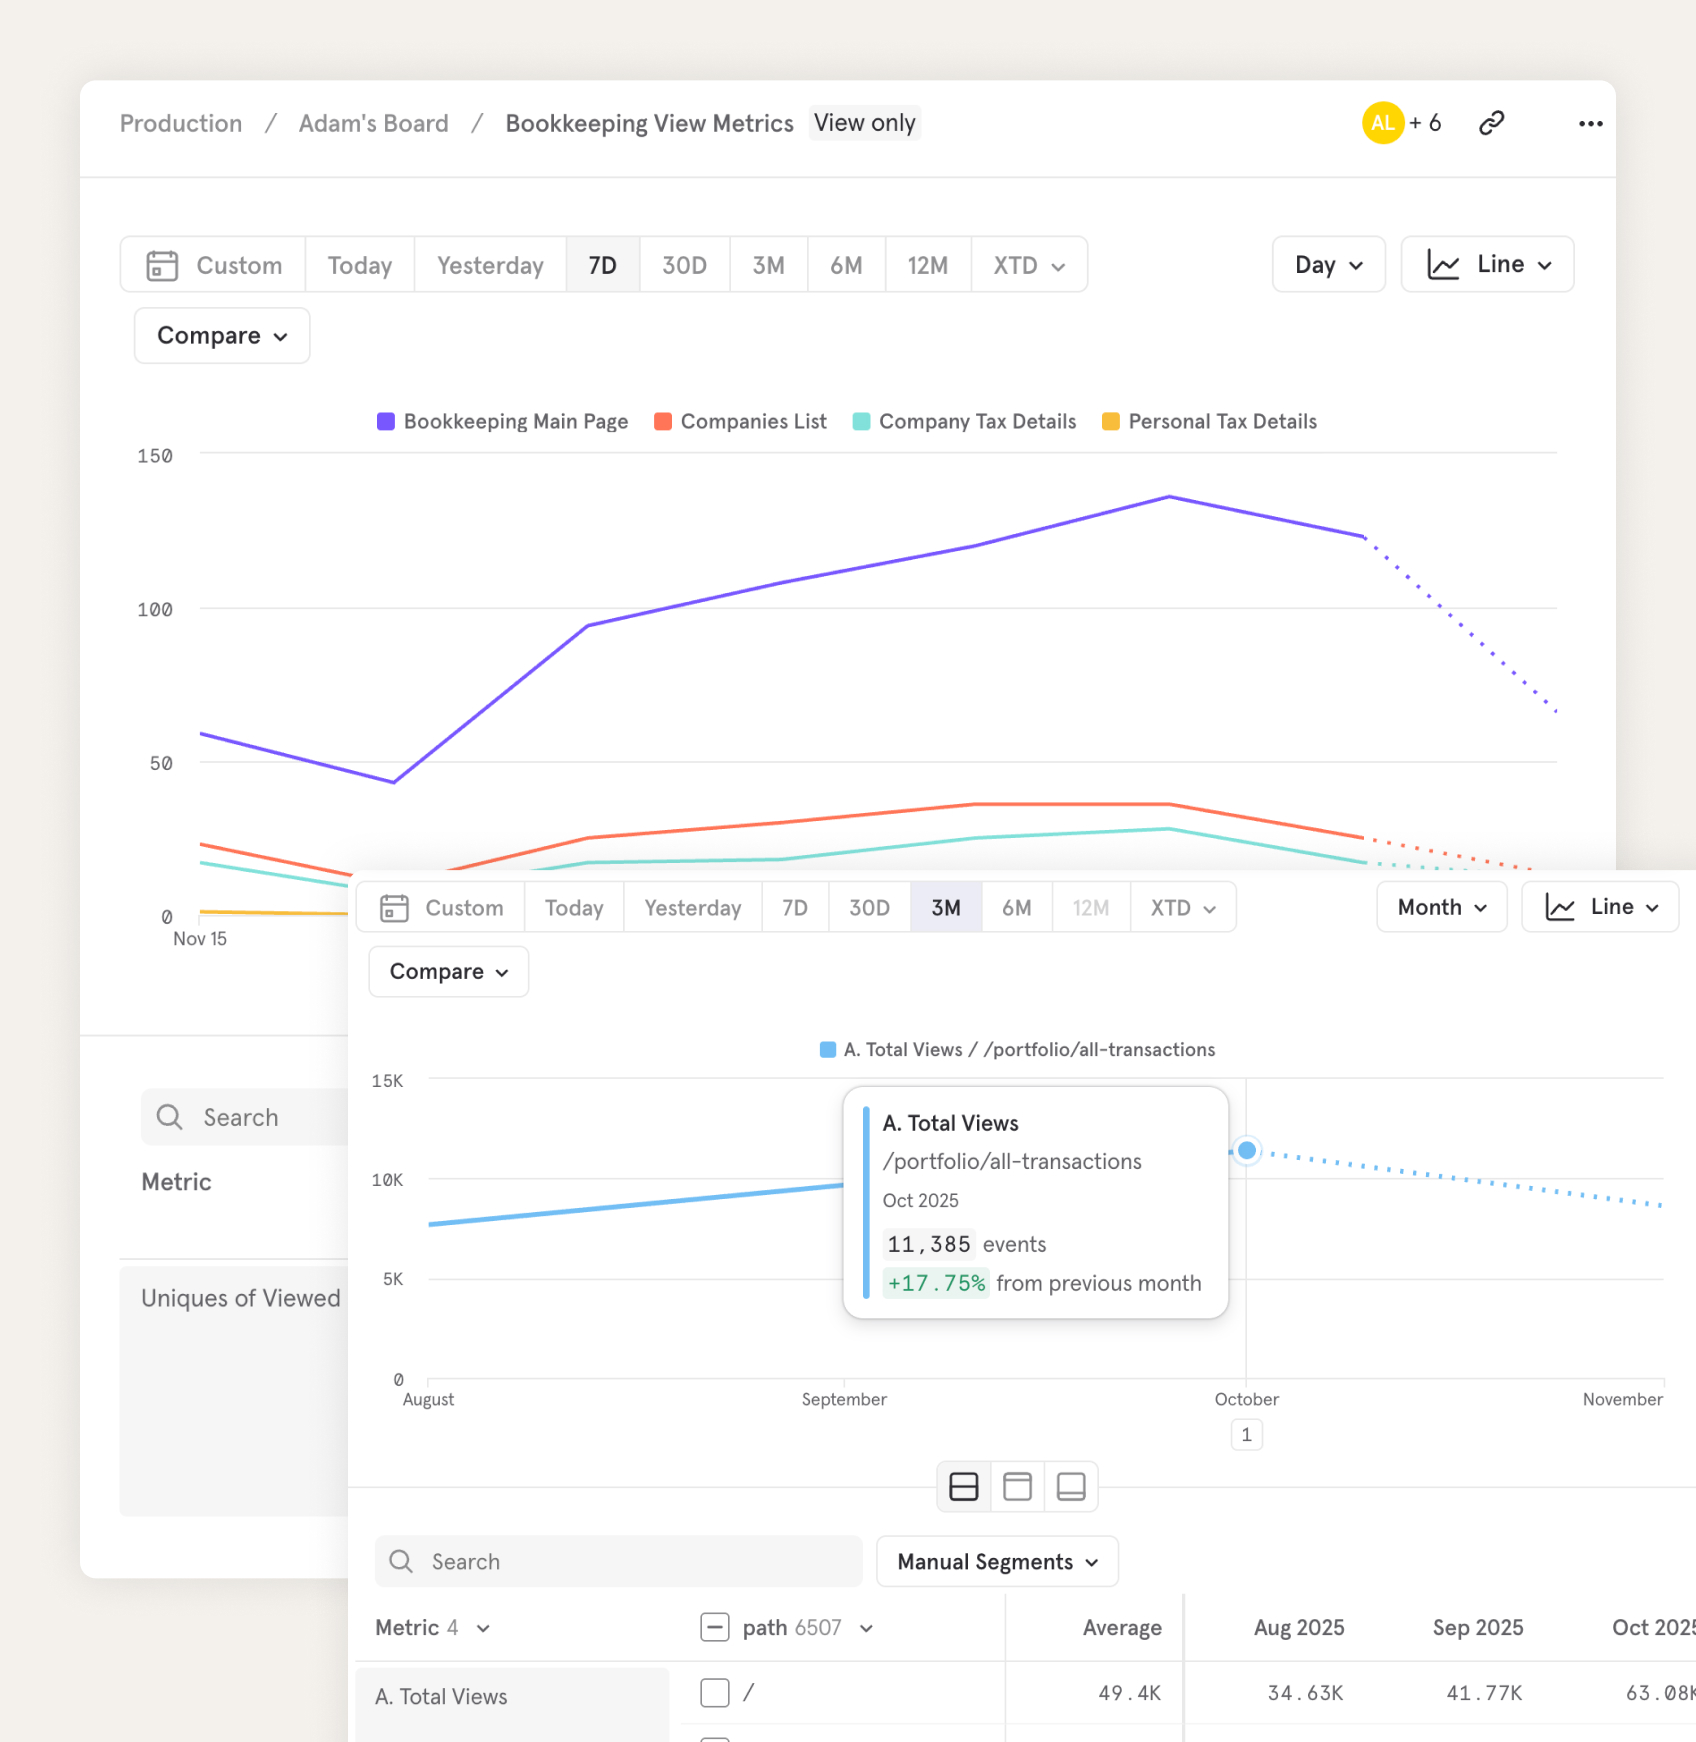
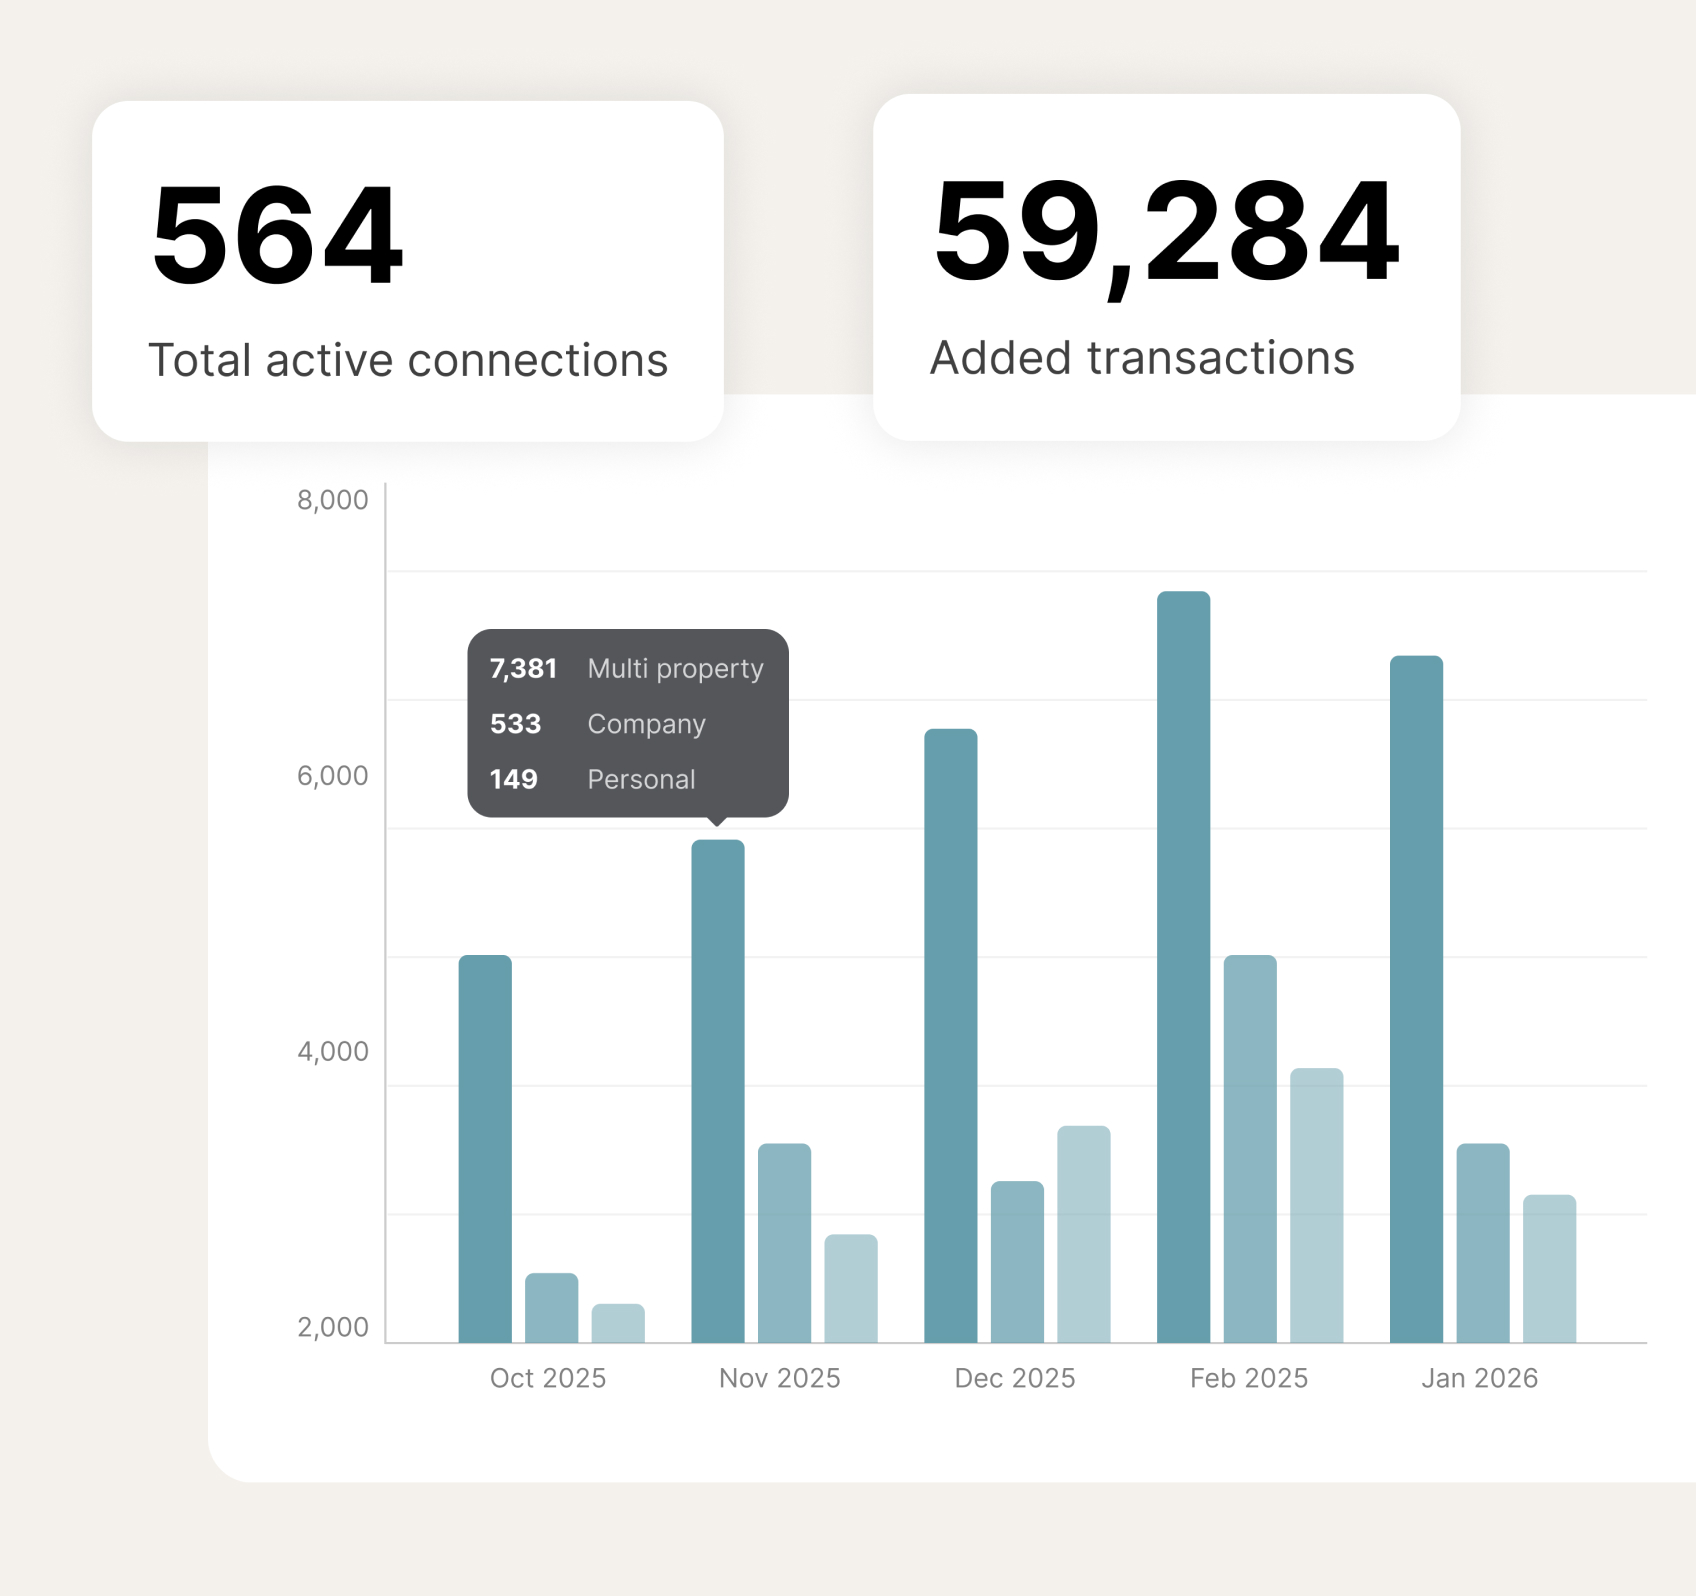
feat: added metrics to home and bookkeeping case study

diff --git a/app/gg-bookkeeping/page.tsx b/app/gg-bookkeeping/page.tsx
@@ -521,25 +521,9 @@ export default function GGBookkeepingPage() {
       content: (
         <>
           <div className="space-y-4">
-            <h3 className="typography-h4-demibold">Initial usage</h3>
-            <p className="typography-body text-foreground">
-              We broke delivery into phases to provide value without overwhelming
-              users, launching Bookkeeping first with MTD to follow.
-            </p>
-            <p className="typography-body text-foreground">
-              We're tracking organic traffic to understand how landlords use
-              the feature compared to the old transactions list. Bookkeeping
-              usage is steadily increasing while the previous transactions page
-              remains static.
-            </p>
-            <p className="typography-body text-foreground">
-              Combined with NPS capture, the data shows the feature gaining
-              steady adoption.
-            </p>
-            <p className="typography-body text-foreground">
-              We've also seen strong appetite for Making Tax Digital, with
-              a ~9% CTR on emails and ~35% of recipients signing up to the MTD
-              waitlist.
+            <h3 className="typography-h4-demibold">Engagement</h3>
+            <p className="typography-body text-foreground min-h-[2lh]">
+              To measure engagement, with bookkeeping we tracked how many users were tracking their income and expenses through open banking and how manysigned up for Making Tax Digital. We&apos;ve seen a significant uptake in both features: <span className="font-bold">200+ MTD sign ups</span> from new users in 2 months, <span className="font-bold">564 active banking connections</span>, and nearly <span className="font-bold">60,000+ transactions</span> added since release.
             </p>
           </div>
 
@@ -548,7 +532,7 @@ export default function GGBookkeepingPage() {
             alt="Analytics dashboard showing bookkeeping feature usage"
             width={1920}
             height={1080}
-            className="w-full h-auto rounded-lg mb-8"
+            className="mt-8 w-full h-auto rounded-lg mb-8"
             loading="lazy"
           />
         </>

diff --git a/components/ui/case-study-card/case-study-card.tsx b/components/ui/case-study-card/case-study-card.tsx
@@ -18,6 +18,8 @@ export interface CaseStudyCardProps {
   year: string;
   /** Project title */
   projectTitle: string;
+  /** Short impact statement focusing on metrics */
+  impact: string;
   /** Image source URL */
   imageSrc: string;
   /** Alt text for the image */
@@ -36,6 +38,7 @@ export function CaseStudyCard({
   businessName,
   year,
   projectTitle,
+  impact,
   imageSrc,
   imageAlt,
   href,
@@ -47,7 +50,7 @@ export function CaseStudyCard({
     <div
       className={cn(
         "group flex flex-col gap-1",
-        href && "cursor-pointer hover:scale-[1.005] transition-transform duration-300 ease-out",
+        href && "cursor-pointer",
         className,
         staggerClass
       )}
@@ -55,13 +58,12 @@ export function CaseStudyCard({
       {/* Project title */}
       <h3 className="typography-h5-demibold">{projectTitle}</h3>
 
-      {/* Business name and year */}
-      <div className="flex items-baseline gap-2 mb-4">
-        <span className="typography-body-bold text-muted-foreground">{businessName}</span>
-        <span className="typography-body text-muted-foreground">{year}</span>
+      {/* Impact statement - min height keeps images level across cards */}
+      <div className="typography-body text-muted-foreground mb-4 min-h-[2lh]">
+        {impact}
       </div>
 
-      {/* 1:1 aspect ratio image */}
+      {/* Image container with overlay */}
       <div className="relative aspect-square w-full overflow-hidden rounded-lg bg-muted">
         <Image
           src={imageSrc}
@@ -71,6 +73,16 @@ export function CaseStudyCard({
           sizes="(max-width: 768px) 100vw, (max-width: 1200px) 50vw, 33vw"
           priority={priority}
         />
+
+        {/* Solid background overlay with business name and year - shown on hover */}
+        <div className="absolute bottom-0 left-0 right-0 opacity-0 transition-opacity duration-300 group-hover:opacity-100">
+          <div className="bg-black/60 px-4 py-4">
+            <div className="flex items-baseline gap-2">
+              <span className="typography-body-bold text-white">{businessName}</span>
+              <span className="typography-body text-white">{year}</span>
+            </div>
+          </div>
+        </div>
       </div>
     </div>
   );

diff --git a/components/ui/case-study-card/case-study-card.stories.tsx b/components/ui/case-study-card/case-study-card.stories.tsx
@@ -22,6 +22,10 @@ const meta: Meta<typeof CaseStudyCard> = {
       control: { type: "text" },
       description: "Project title",
     },
+    impact: {
+      control: { type: "text" },
+      description: "Short impact statement focusing on metrics",
+    },
     imageSrc: {
       control: { type: "text" },
       description: "Image source URL",
@@ -45,6 +49,7 @@ export const Default: Story = {
     businessName: "Acme Corporation",
     year: "2024",
     projectTitle: "E-commerce Platform Redesign",
+    impact: "45% increase in conversion rate, 60% faster checkout flow",
     imageSrc: "https://images.unsplash.com/photo-1460925895917-afdab827c52f?w=800&h=800&fit=crop",
     imageAlt: "E-commerce platform interface",
   },
@@ -55,6 +60,7 @@ export const WithLink: Story = {
     businessName: "Tech Startup",
     year: "2023",
     projectTitle: "Mobile App Development",
+    impact: "Native iOS/Android app with 4.8 star rating",
     imageSrc: "https://images.unsplash.com/photo-1551650975-87deedd944c3?w=800&h=800&fit=crop",
     imageAlt: "Mobile app screens",
     href: "/case-studies/mobile-app",
@@ -66,6 +72,7 @@ export const DesignSystem: Story = {
     businessName: "Global Bank",
     year: "2024",
     projectTitle: "Design System Implementation",
+    impact: "50% reduction in design-to-dev handoff time",
     imageSrc: "https://images.unsplash.com/photo-1558655146-9f40138edfeb?w=800&h=800&fit=crop",
     imageAlt: "Design system components",
     href: "/case-studies/design-system",
@@ -79,6 +86,7 @@ export const Grid: Story = {
         businessName="Acme Corporation"
         year="2024"
         projectTitle="E-commerce Platform Redesign"
+        impact="45% increase in conversion rate, 60% faster checkout flow"
         imageSrc="https://images.unsplash.com/photo-1460925895917-afdab827c52f?w=800&h=800&fit=crop"
         imageAlt="E-commerce platform"
         href="/case-studies/ecommerce"
@@ -87,6 +95,7 @@ export const Grid: Story = {
         businessName="Tech Startup"
         year="2023"
         projectTitle="Mobile App Development"
+        impact="Native iOS/Android app with 4.8 star rating"
         imageSrc="https://images.unsplash.com/photo-1551650975-87deedd944c3?w=800&h=800&fit=crop"
         imageAlt="Mobile app"
         href="/case-studies/mobile-app"
@@ -95,6 +104,7 @@ export const Grid: Story = {
         businessName="Global Bank"
         year="2024"
         projectTitle="Design System Implementation"
+        impact="50% reduction in design-to-dev handoff time"
         imageSrc="https://images.unsplash.com/photo-1558655146-9f40138edfeb?w=800&h=800&fit=crop"
         imageAlt="Design system"
         href="/case-studies/design-system"
@@ -103,6 +113,7 @@ export const Grid: Story = {
         businessName="Retail Chain"
         year="2023"
         projectTitle="Customer Portal Redesign"
+        impact="35% improvement in user satisfaction scores"
         imageSrc="https://images.unsplash.com/photo-1498050108023-c5249f4df085?w=800&h=800&fit=crop"
         imageAlt="Customer portal"
         href="/case-studies/portal"
@@ -111,6 +122,7 @@ export const Grid: Story = {
         businessName="SaaS Company"
         year="2024"
         projectTitle="Dashboard UI Overhaul"
+        impact="40% reduction in support tickets, clearer data visualization"
         imageSrc="https://images.unsplash.com/photo-1551288049-bebda4e38f71?w=800&h=800&fit=crop"
         imageAlt="Dashboard interface"
         href="/case-studies/dashboard"
@@ -119,6 +131,7 @@ export const Grid: Story = {
         businessName="Healthcare Provider"
         year="2023"
         projectTitle="Patient Management System"
+        impact="80% faster patient record access, HIPAA compliant"
         imageSrc="https://images.unsplash.com/photo-1576091160399-112ba8d25d1d?w=800&h=800&fit=crop"
         imageAlt="Healthcare system"
         href="/case-studies/healthcare"

diff --git a/app/page.tsx b/app/page.tsx
@@ -139,6 +139,7 @@ export default function Home() {
                   businessName="GetGround"
                   year="2025/26"
                   projectTitle="Enabling Product Led Growth"
+                  impact="22% uplift through funnel, 38% more sign ups, 41% more completions."
                   imageSrc="/images/case-studies/gg-home-ui.jpg"
                   imageAlt="GetGround Platform UI Refresh"
                   href="/gg-plg"
@@ -149,6 +150,7 @@ export default function Home() {
                   businessName="GetGround"
                   year="2025"
                   projectTitle="Bookkeeping & Tax"
+                  impact="200+ MTD sign ups in 2 months, 564 active banking connections, 60,000+ transactions since release."
                   imageSrc="/images/case-studies/gg-home-bk.jpg"
                   imageAlt="GetGround Bookkeeping & MTD"
                   href="/gg-bookkeeping"
@@ -159,6 +161,7 @@ export default function Home() {
                   businessName="Sage"
                   year="2021-2024"
                   projectTitle="Sage Individual"
+                  impact="Supporting ~150,000 sole traders across the UK with their business needs."
                   imageSrc="/images/case-studies/sage-home-individual.jpg"
                   imageAlt="Sage Individual mobile app"
                   href="/sage-individual"
@@ -168,6 +171,7 @@ export default function Home() {
                   businessName="Sage"
                   year="2021-2024"
                   projectTitle="Graphite Design System"
+                  impact="Native iOS/Android design system built from the ground up."
                   imageSrc="/images/case-studies/individual-ds-2.jpg"
                   imageAlt="Sage GraphiteDesign System"
                   href="/sage-ds"